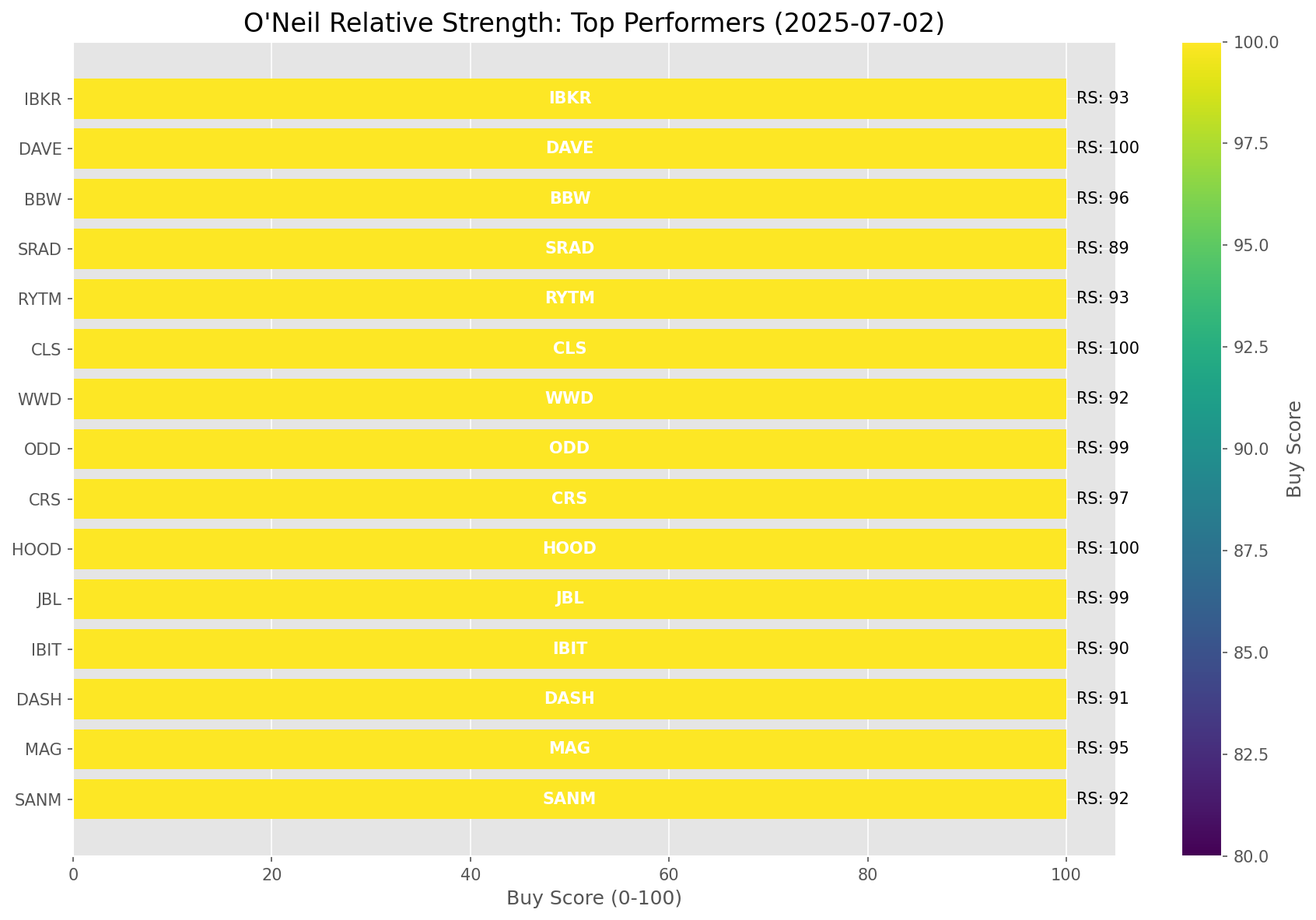
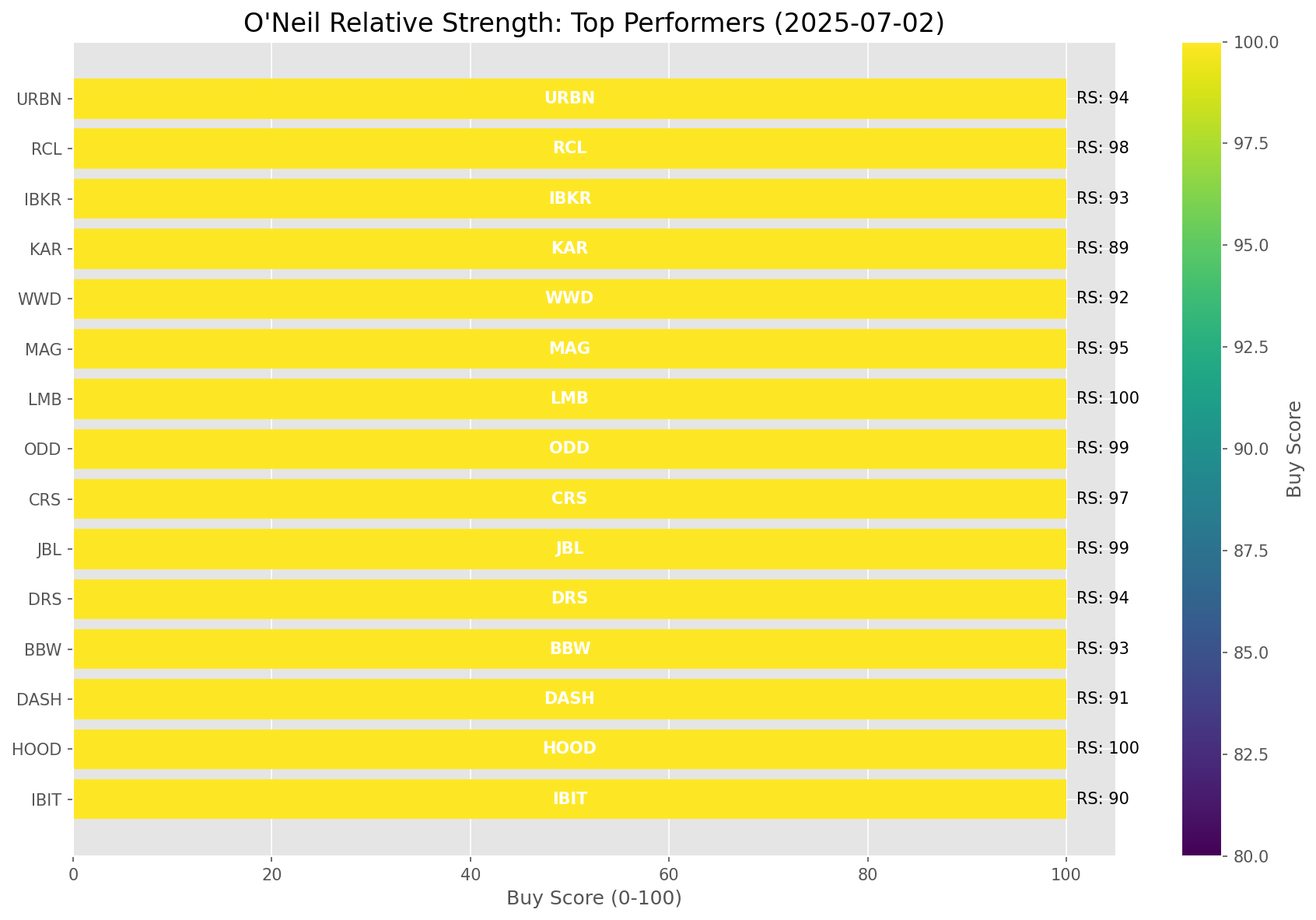
Add market report for 2025-07-02

diff --git a/oneil_relative_strength_report_2025-07-02.md b/oneil_relative_strength_report_2025-07-02.md
@@ -9,11 +9,11 @@
 | Metric | Value |
 |--------|-------|
 | **Market Valuation** | **Overvalued** |
-| **Current Ratio** | 10.18 |
+| **Current Ratio** | 10.19 |
 | **Historical Mean** | 9.37 |
 | **Standard Deviation** | 0.47 |
 | **Z-Score (StdDev from Mean)** | 1.64 |
-| **Total Market Cap** | $305.09 trillion |
+| **Total Market Cap** | $305.28 trillion |
 | **GDP** | $29.96 trillion |
 
 ## **Market Insights**
@@ -49,41 +49,41 @@ Based on William O'Neil's Relative Strength Methodology
 
 | ETF | Strength | RS Rating | Performance | Above Key MAs | Trend | Sector |
 |-----|----------|-----------|-------------|--------------|-------|--------|
-| [ARKW](https://www.tradingview.com/chart/?symbol=ARKW) | 98.5 | 97.0 | 51.11% | 10d ✓, 50d ✓, 200d ✓ | ↗ | Next Generation Internet |
-| [ARKK](https://www.tradingview.com/chart/?symbol=ARKK) | 98.5 | 97.0 | 47.62% | 10d ✓, 50d ✓, 200d ✓ | ↗ | Innovation |
-| [BLOK](https://www.tradingview.com/chart/?symbol=BLOK) | 98.0 | 96.0 | 41.51% | 10d ✓, 50d ✓, 200d ✓ | ↗ | Blockchain & Cryptocurrency |
-| [ARKF](https://www.tradingview.com/chart/?symbol=ARKF) | 98.0 | 96.0 | 46.80% | 10d ✓, 50d ✓, 200d ✓ | ↗ | Fintech Innovation |
-| [XLK](https://www.tradingview.com/chart/?symbol=XLK) | 92.0 | 84.0 | 21.59% | 10d ✓, 50d ✓, 200d ✓ | ↗ | Technology |
-| [AIQ](https://www.tradingview.com/chart/?symbol=AIQ) | 90.0 | 80.0 | 18.15% | 10d ✓, 50d ✓, 200d ✓ | ↗ | Artificial Intelligence & Technology |
-| [URA](https://www.tradingview.com/chart/?symbol=URA) | 89.6 | 99.0 | 62.76% | 10d ✗, 50d ✓, 200d ✓ | ↗ | Uranium |
-| [PAVE](https://www.tradingview.com/chart/?symbol=PAVE) | 89.0 | 78.0 | 16.68% | 10d ✓, 50d ✓, 200d ✓ | ↗ | Infrastructure |
-| [CIBR](https://www.tradingview.com/chart/?symbol=CIBR) | 89.0 | 78.0 | 17.03% | 10d ✓, 50d ✓, 200d ✓ | ↗ | Cybersecurity |
-| [JETS](https://www.tradingview.com/chart/?symbol=JETS) | 88.0 | 76.0 | 15.66% | 10d ✓, 50d ✓, 200d ✓ | ↗ | Airlines |
-| [XLI](https://www.tradingview.com/chart/?symbol=XLI) | 84.5 | 69.0 | 12.13% | 10d ✓, 50d ✓, 200d ✓ | ↗ | Industrial |
-| [XLC](https://www.tradingview.com/chart/?symbol=XLC) | 83.5 | 67.0 | 11.39% | 10d ✓, 50d ✓, 200d ✓ | ↗ | Communications |
-| [XLY](https://www.tradingview.com/chart/?symbol=XLY) | 82.0 | 64.0 | 10.24% | 10d ✓, 50d ✓, 200d ✓ | ↗ | Consumer Discretionary |
-| [SLV](https://www.tradingview.com/chart/?symbol=SLV) | 79.0 | 58.0 | 8.37% | 10d ✓, 50d ✓, 200d ✓ | ↗ | Silver |
-| [IYZ](https://www.tradingview.com/chart/?symbol=IYZ) | 78.5 | 57.0 | 7.61% | 10d ✓, 50d ✓, 200d ✓ | ↗ | Telecommunications |
-| [GLD](https://www.tradingview.com/chart/?symbol=GLD) | 77.5 | 55.0 | 7.32% | 10d ✓, 50d ✓, 200d ✓ | ↗ | Gold |
-| [XLF](https://www.tradingview.com/chart/?symbol=XLF) | 75.5 | 51.0 | 5.38% | 10d ✓, 50d ✓, 200d ✓ | ↗ | Financial |
-| [SOXX](https://www.tradingview.com/chart/?symbol=SOXX) | 75.0 | 90.0 | 28.74% | 10d ✓, 50d ✓, 200d ✓ | ↘ | Semiconductors |
-| [ARKG](https://www.tradingview.com/chart/?symbol=ARKG) | 74.0 | 88.0 | 24.90% | 10d ✓, 50d ✓, 200d ✓ | ↘ | Genomics |
-| [XLU](https://www.tradingview.com/chart/?symbol=XLU) | 72.0 | 44.0 | 2.86% | 10d ✓, 50d ✓, 200d ✓ | ↗ | Utilities |
-| [ICLN](https://www.tradingview.com/chart/?symbol=ICLN) | 69.5 | 79.0 | 17.51% | 10d ✓, 50d ✓, 200d ✓ | ↘ | Clean Energy |
-| [XLP](https://www.tradingview.com/chart/?symbol=XLP) | 68.5 | 37.0 | 0.44% | 10d ✓, 50d ✓, 200d ✓ | ↗ | Consumer Staples |
-| [IYT](https://www.tradingview.com/chart/?symbol=IYT) | 61.0 | 62.0 | 9.51% | 10d ✓, 50d ✓, 200d ✓ | ↘ | Transportation |
-| [XLB](https://www.tradingview.com/chart/?symbol=XLB) | 55.5 | 51.0 | 5.52% | 10d ✓, 50d ✓, 200d ✓ | ↘ | Materials |
-| [KWEB](https://www.tradingview.com/chart/?symbol=KWEB) | 51.6 | 23.0 | -3.46% | 10d ✗, 50d ✓, 200d ✓ | ↗ | Chinese Internet |
-| [DBC](https://www.tradingview.com/chart/?symbol=DBC) | 45.0 | 30.0 | -0.84% | 10d ✓, 50d ✓, 200d ✓ | ↘ | Commodities |
-| [IBB](https://www.tradingview.com/chart/?symbol=IBB) | 43.8 | 48.0 | 4.15% | 10d ✓, 50d ✓, 200d ✗ | ↘ | Biotechnology |
-| [ITB](https://www.tradingview.com/chart/?symbol=ITB) | 41.8 | 44.0 | 2.84% | 10d ✓, 50d ✓, 200d ✗ | ↘ | Home Construction |
-| [IYR](https://www.tradingview.com/chart/?symbol=IYR) | 35.8 | 32.0 | -0.42% | 10d ✓, 50d ✓, 200d ✗ | ↘ | Real Estate |
-| [DBA](https://www.tradingview.com/chart/?symbol=DBA) | 33.5 | 27.0 | -1.73% | 10d ✗, 50d ✗, 200d ✗ | ↗ | Agriculture |
-| [XLV](https://www.tradingview.com/chart/?symbol=XLV) | 29.3 | 19.0 | -5.33% | 10d ✓, 50d ✓, 200d ✗ | ↘ | Healthcare |
-| [XLE](https://www.tradingview.com/chart/?symbol=XLE) | 26.8 | 14.0 | -7.95% | 10d ✓, 50d ✓, 200d ✗ | ↘ | Energy |
-| [TLT](https://www.tradingview.com/chart/?symbol=TLT) | 19.9 | 20.0 | -4.58% | 10d ✗, 50d ✓, 200d ✗ | ↘ | Long-term Treasuries |
-| [BIL](https://www.tradingview.com/chart/?symbol=BIL) | 17.5 | 35.0 | 0.02% | 10d ✗, 50d ✗, 200d ✗ | ↘ | Short-term Treasuries |
-| [UUP](https://www.tradingview.com/chart/?symbol=UUP) | 9.0 | 18.0 | -5.93% | 10d ✗, 50d ✗, 200d ✗ | ↘ | U.S. Dollar |
+| [ARKK](https://www.tradingview.com/chart/?symbol=ARKK) | 98.5 | 97.0 | 47.68% | 10d ✓, 50d ✓, 200d ✓ | ↗ | Innovation |
+| [ARKW](https://www.tradingview.com/chart/?symbol=ARKW) | 98.5 | 97.0 | 51.14% | 10d ✓, 50d ✓, 200d ✓ | ↗ | Next Generation Internet |
+| [BLOK](https://www.tradingview.com/chart/?symbol=BLOK) | 98.0 | 96.0 | 42.49% | 10d ✓, 50d ✓, 200d ✓ | ↗ | Blockchain & Cryptocurrency |
+| [ARKF](https://www.tradingview.com/chart/?symbol=ARKF) | 98.0 | 96.0 | 46.83% | 10d ✓, 50d ✓, 200d ✓ | ↗ | Fintech Innovation |
+| [XLK](https://www.tradingview.com/chart/?symbol=XLK) | 92.0 | 84.0 | 21.77% | 10d ✓, 50d ✓, 200d ✓ | ↗ | Technology |
+| [AIQ](https://www.tradingview.com/chart/?symbol=AIQ) | 90.0 | 80.0 | 18.26% | 10d ✓, 50d ✓, 200d ✓ | ↗ | Artificial Intelligence & Technology |
+| [URA](https://www.tradingview.com/chart/?symbol=URA) | 89.6 | 99.0 | 63.39% | 10d ✗, 50d ✓, 200d ✓ | ↗ | Uranium |
+| [PAVE](https://www.tradingview.com/chart/?symbol=PAVE) | 89.0 | 78.0 | 16.96% | 10d ✓, 50d ✓, 200d ✓ | ↗ | Infrastructure |
+| [CIBR](https://www.tradingview.com/chart/?symbol=CIBR) | 89.0 | 78.0 | 17.11% | 10d ✓, 50d ✓, 200d ✓ | ↗ | Cybersecurity |
+| [JETS](https://www.tradingview.com/chart/?symbol=JETS) | 88.0 | 76.0 | 16.10% | 10d ✓, 50d ✓, 200d ✓ | ↗ | Airlines |
+| [XLI](https://www.tradingview.com/chart/?symbol=XLI) | 84.5 | 69.0 | 12.28% | 10d ✓, 50d ✓, 200d ✓ | ↗ | Industrial |
+| [XLC](https://www.tradingview.com/chart/?symbol=XLC) | 83.5 | 67.0 | 11.37% | 10d ✓, 50d ✓, 200d ✓ | ↗ | Communications |
+| [XLY](https://www.tradingview.com/chart/?symbol=XLY) | 82.0 | 64.0 | 10.41% | 10d ✓, 50d ✓, 200d ✓ | ↗ | Consumer Discretionary |
+| [SLV](https://www.tradingview.com/chart/?symbol=SLV) | 79.0 | 58.0 | 8.42% | 10d ✓, 50d ✓, 200d ✓ | ↗ | Silver |
+| [IYZ](https://www.tradingview.com/chart/?symbol=IYZ) | 78.0 | 56.0 | 7.79% | 10d ✓, 50d ✓, 200d ✓ | ↗ | Telecommunications |
+| [GLD](https://www.tradingview.com/chart/?symbol=GLD) | 77.5 | 55.0 | 7.47% | 10d ✓, 50d ✓, 200d ✓ | ↗ | Gold |
+| [XLF](https://www.tradingview.com/chart/?symbol=XLF) | 75.5 | 51.0 | 5.66% | 10d ✓, 50d ✓, 200d ✓ | ↗ | Financial |
+| [SOXX](https://www.tradingview.com/chart/?symbol=SOXX) | 75.0 | 90.0 | 28.68% | 10d ✓, 50d ✓, 200d ✓ | ↘ | Semiconductors |
+| [ARKG](https://www.tradingview.com/chart/?symbol=ARKG) | 73.5 | 87.0 | 24.88% | 10d ✓, 50d ✓, 200d ✓ | ↘ | Genomics |
+| [XLU](https://www.tradingview.com/chart/?symbol=XLU) | 72.0 | 44.0 | 3.06% | 10d ✓, 50d ✓, 200d ✓ | ↗ | Utilities |
+| [ICLN](https://www.tradingview.com/chart/?symbol=ICLN) | 69.5 | 79.0 | 17.62% | 10d ✓, 50d ✓, 200d ✓ | ↘ | Clean Energy |
+| [XLP](https://www.tradingview.com/chart/?symbol=XLP) | 68.0 | 36.0 | 0.40% | 10d ✓, 50d ✓, 200d ✓ | ↗ | Consumer Staples |
+| [IYT](https://www.tradingview.com/chart/?symbol=IYT) | 61.5 | 63.0 | 10.02% | 10d ✓, 50d ✓, 200d ✓ | ↘ | Transportation |
+| [XLB](https://www.tradingview.com/chart/?symbol=XLB) | 55.5 | 51.0 | 5.91% | 10d ✓, 50d ✓, 200d ✓ | ↘ | Materials |
+| [KWEB](https://www.tradingview.com/chart/?symbol=KWEB) | 51.6 | 23.0 | -3.44% | 10d ✗, 50d ✓, 200d ✓ | ↗ | Chinese Internet |
+| [DBC](https://www.tradingview.com/chart/?symbol=DBC) | 44.5 | 29.0 | -0.89% | 10d ✓, 50d ✓, 200d ✓ | ↘ | Commodities |
+| [IBB](https://www.tradingview.com/chart/?symbol=IBB) | 43.3 | 47.0 | 4.14% | 10d ✓, 50d ✓, 200d ✗ | ↘ | Biotechnology |
+| [ITB](https://www.tradingview.com/chart/?symbol=ITB) | 42.3 | 45.0 | 3.41% | 10d ✓, 50d ✓, 200d ✗ | ↘ | Home Construction |
+| [IYR](https://www.tradingview.com/chart/?symbol=IYR) | 36.8 | 34.0 | 0.02% | 10d ✓, 50d ✓, 200d ✗ | ↘ | Real Estate |
+| [DBA](https://www.tradingview.com/chart/?symbol=DBA) | 33.5 | 27.0 | -1.71% | 10d ✗, 50d ✗, 200d ✗ | ↗ | Agriculture |
+| [TLT](https://www.tradingview.com/chart/?symbol=TLT) | 29.8 | 20.0 | -4.37% | 10d ✓, 50d ✓, 200d ✗ | ↘ | Long-term Treasuries |
+| [XLV](https://www.tradingview.com/chart/?symbol=XLV) | 28.8 | 18.0 | -5.39% | 10d ✓, 50d ✓, 200d ✗ | ↘ | Healthcare |
+| [XLE](https://www.tradingview.com/chart/?symbol=XLE) | 26.8 | 14.0 | -7.58% | 10d ✓, 50d ✓, 200d ✗ | ↘ | Energy |
+| [BIL](https://www.tradingview.com/chart/?symbol=BIL) | 17.0 | 34.0 | 0.02% | 10d ✗, 50d ✗, 200d ✗ | ↘ | Short-term Treasuries |
+| [UUP](https://www.tradingview.com/chart/?symbol=UUP) | 8.5 | 17.0 | -5.95% | 10d ✗, 50d ✗, 200d ✗ | ↘ | U.S. Dollar |
 
 ### **Sector ETF Performance Interpretation**
 
@@ -98,136 +98,132 @@ This table shows the relative strength metrics for different market sectors base
 
 ### **Current Sector Leadership**
 
-The current market leadership is coming from the following sectors: **Next Generation Internet, Innovation, Blockchain & Cryptocurrency**.
+The current market leadership is coming from the following sectors: **Innovation, Next Generation Internet, Blockchain & Cryptocurrency**.
 
-The **Next Generation Internet** sector (represented by **ARKW**) is showing particularly strong relative strength with an RS rating of 97.0 and performance of 51.11% vs. the S&P 500. This sector is trading above its 10-day, 50-day, 200-day moving average(s). Investors should consider focusing on high RS stocks within these leading sectors for potential outperformance.
+The **Innovation** sector (represented by **ARKK**) is showing particularly strong relative strength with an RS rating of 97.0 and performance of 47.68% vs. the S&P 500. This sector is trading above its 10-day, 50-day, 200-day moving average(s). Investors should consider focusing on high RS stocks within these leading sectors for potential outperformance.
 
 ---
 
 ## **Buy Recommendations**
 
-The following 55 stocks show exceptional relative strength:
+The following 53 stocks show exceptional relative strength:
 
 | RS Rating | Buy Score | Current Price | Chart | Name | Ticker |
 |-----------|-----------|---------------|-------|------|--------|
-| 100 | 100 | $98.62 | [Chart](https://www.tradingview.com/chart/?symbol=HOOD) | Robinhood Markets, Inc. Class A Common Stock | HOOD |
-| 100 | 100 | $153.01 | [Chart](https://www.tradingview.com/chart/?symbol=CLS) | Celestica, Inc. | CLS |
-| 100 | 100 | $269.75 | [Chart](https://www.tradingview.com/chart/?symbol=DAVE) | Dave Inc. Class A Common Stock | DAVE |
-| 100 | 100 | $173.19 | [Chart](https://www.tradingview.com/chart/?symbol=SEZL) | Sezzle Inc. Common Stock | SEZL |
-| 100 | 100 | $145.69 | [Chart](https://www.tradingview.com/chart/?symbol=LMB) | Limbach Holdings, Inc Common Stock | LMB |
-| 99 | 100 | $219.08 | [Chart](https://www.tradingview.com/chart/?symbol=JBL) | Jabil Inc. | JBL |
-| 99 | 100 | $75.44 | [Chart](https://www.tradingview.com/chart/?symbol=ODD) | ODDITY Tech Ltd. Class A Ordinary Shares | ODD |
-| 99 | 100 | $342.72 | [Chart](https://www.tradingview.com/chart/?symbol=CVNA) | Carvana Co. | CVNA |
+| 100 | 100 | $97.44 | [Chart](https://www.tradingview.com/chart/?symbol=HOOD) | Robinhood Markets, Inc. Class A Common Stock | HOOD |
+| 100 | 100 | $144.17 | [Chart](https://www.tradingview.com/chart/?symbol=LMB) | Limbach Holdings, Inc Common Stock | LMB |
+| 100 | 100 | $153.21 | [Chart](https://www.tradingview.com/chart/?symbol=CLS) | Celestica, Inc. | CLS |
+| 100 | 100 | $172.62 | [Chart](https://www.tradingview.com/chart/?symbol=SEZL) | Sezzle Inc. Common Stock | SEZL |
+| 100 | 100 | $271.79 | [Chart](https://www.tradingview.com/chart/?symbol=DAVE) | Dave Inc. Class A Common Stock | DAVE |
+| 99 | 100 | $220.97 | [Chart](https://www.tradingview.com/chart/?symbol=JBL) | Jabil Inc. | JBL |
+| 99 | 100 | $75.13 | [Chart](https://www.tradingview.com/chart/?symbol=ODD) | ODDITY Tech Ltd. Class A Ordinary Shares | ODD |
 | 99 | 100 | $43.88 | [Chart](https://www.tradingview.com/chart/?symbol=FARO) | Faro Technologies Inc | FARO |
-| 98 | 100 | $322.94 | [Chart](https://www.tradingview.com/chart/?symbol=RCL) | Royal Caribbean Group | RCL |
-| 97 | 100 | $273.17 | [Chart](https://www.tradingview.com/chart/?symbol=CRS) | Carpenter Technology Corp | CRS |
-| 96 | 100 | $52.60 | [Chart](https://www.tradingview.com/chart/?symbol=BBW) | Build-A-Bear Workshop, Inc. | BBW |
-| 96 | 100 | $38.09 | [Chart](https://www.tradingview.com/chart/?symbol=AS) | Amer Sports, Inc. | AS |
-| 95 | 100 | $21.23 | [Chart](https://www.tradingview.com/chart/?symbol=MAG) | MAG Silver Corp. | MAG |
-| 94 | 100 | $73.17 | [Chart](https://www.tradingview.com/chart/?symbol=URBN) | Urban Outfitters Inc | URBN |
-| 94 | 100 | $45.18 | [Chart](https://www.tradingview.com/chart/?symbol=DRS) | Leonardo DRS, Inc. Common Stock | DRS |
-| 93 | 100 | $67.10 | [Chart](https://www.tradingview.com/chart/?symbol=RYTM) | Rhythm Pharmaceuticals, Inc. Common Stock | RYTM |
-| 93 | 100 | $57.56 | [Chart](https://www.tradingview.com/chart/?symbol=IBKR) | Interactive Brokers Group, Inc. Class A Common Stock | IBKR |
-| 93 | 100 | $17.70 | [Chart](https://www.tradingview.com/chart/?symbol=DAN) | Dana Incorporated | DAN |
-| 92 | 100 | $100.43 | [Chart](https://www.tradingview.com/chart/?symbol=SANM) | Sanmina  Corp | SANM |
-| 92 | 100 | $246.56 | [Chart](https://www.tradingview.com/chart/?symbol=WWD) | Woodward, Inc. | WWD |
-| 91 | 100 | $237.93 | [Chart](https://www.tradingview.com/chart/?symbol=DASH) | DoorDash, Inc. Class A Common Stock | DASH |
-| 91 | 100 | $41.92 | [Chart](https://www.tradingview.com/chart/?symbol=KD) | Kyndryl Holdings, Inc. | KD |
-| 90 | 100 | $62.18 | [Chart](https://www.tradingview.com/chart/?symbol=IBIT) | iShares Bitcoin Trust ETF | IBIT |
-| 90 | 100 | $65.15 | [Chart](https://www.tradingview.com/chart/?symbol=CAKE) | Cheesecake Factory (The) | CAKE |
-| 90 | 100 | $104.54 | [Chart](https://www.tradingview.com/chart/?symbol=JCI) | Johnson Controls International plc | JCI |
-| 89 | 100 | $27.50 | [Chart](https://www.tradingview.com/chart/?symbol=SRAD) | Sportradar Group AG Class A Ordinary Shares | SRAD |
-| 89 | 100 | $25.50 | [Chart](https://www.tradingview.com/chart/?symbol=KAR) | OPENLANE, Inc | KAR |
-| 88 | 99 | $132.99 | [Chart](https://www.tradingview.com/chart/?symbol=NTES) | NetEase, inc. | NTES |
-| 87 | 99 | $155.29 | [Chart](https://www.tradingview.com/chart/?symbol=COOP) | Mr. Cooper Group Inc. Common Stock | COOP |
-| 88 | 98 | $85.36 | [Chart](https://www.tradingview.com/chart/?symbol=SLNO) | Soleno Therapeutics, Inc. Common Stock | SLNO |
-| 84 | 97 | $44.09 | [Chart](https://www.tradingview.com/chart/?symbol=EXEL) | Exelixis Inc | EXEL |
-| 87 | 96 | $48.47 | [Chart](https://www.tradingview.com/chart/?symbol=SIL) | Global X Silver Miners ETF (NEW) | SIL |
+| 99 | 100 | $343.47 | [Chart](https://www.tradingview.com/chart/?symbol=CVNA) | Carvana Co. | CVNA |
+| 98 | 100 | $324.19 | [Chart](https://www.tradingview.com/chart/?symbol=RCL) | Royal Caribbean Group | RCL |
+| 97 | 100 | $273.38 | [Chart](https://www.tradingview.com/chart/?symbol=CRS) | Carpenter Technology Corp | CRS |
+| 96 | 100 | $38.12 | [Chart](https://www.tradingview.com/chart/?symbol=AS) | Amer Sports, Inc. | AS |
+| 95 | 100 | $21.28 | [Chart](https://www.tradingview.com/chart/?symbol=MAG) | MAG Silver Corp. | MAG |
+| 94 | 100 | $45.07 | [Chart](https://www.tradingview.com/chart/?symbol=DRS) | Leonardo DRS, Inc. Common Stock | DRS |
+| 94 | 100 | $73.02 | [Chart](https://www.tradingview.com/chart/?symbol=URBN) | Urban Outfitters Inc | URBN |
+| 93 | 100 | $52.64 | [Chart](https://www.tradingview.com/chart/?symbol=BBW) | Build-A-Bear Workshop, Inc. | BBW |
+| 93 | 100 | $57.73 | [Chart](https://www.tradingview.com/chart/?symbol=IBKR) | Interactive Brokers Group, Inc. Class A Common Stock | IBKR |
+| 93 | 100 | $66.97 | [Chart](https://www.tradingview.com/chart/?symbol=RYTM) | Rhythm Pharmaceuticals, Inc. Common Stock | RYTM |
+| 93 | 100 | $17.74 | [Chart](https://www.tradingview.com/chart/?symbol=DAN) | Dana Incorporated | DAN |
+| 93 | 100 | $101.25 | [Chart](https://www.tradingview.com/chart/?symbol=SANM) | Sanmina  Corp | SANM |
+| 92 | 100 | $247.00 | [Chart](https://www.tradingview.com/chart/?symbol=WWD) | Woodward, Inc. | WWD |
+| 92 | 100 | $42.16 | [Chart](https://www.tradingview.com/chart/?symbol=KD) | Kyndryl Holdings, Inc. | KD |
+| 91 | 100 | $237.16 | [Chart](https://www.tradingview.com/chart/?symbol=DASH) | DoorDash, Inc. Class A Common Stock | DASH |
+| 90 | 100 | $62.20 | [Chart](https://www.tradingview.com/chart/?symbol=IBIT) | iShares Bitcoin Trust ETF | IBIT |
+| 90 | 100 | $104.81 | [Chart](https://www.tradingview.com/chart/?symbol=JCI) | Johnson Controls International plc | JCI |
+| 90 | 100 | $65.41 | [Chart](https://www.tradingview.com/chart/?symbol=CAKE) | Cheesecake Factory (The) | CAKE |
+| 89 | 100 | $25.52 | [Chart](https://www.tradingview.com/chart/?symbol=KAR) | OPENLANE, Inc | KAR |
+| 89 | 100 | $27.41 | [Chart](https://www.tradingview.com/chart/?symbol=SRAD) | Sportradar Group AG Class A Ordinary Shares | SRAD |
+| 88 | 99 | $132.89 | [Chart](https://www.tradingview.com/chart/?symbol=NTES) | NetEase, inc. | NTES |
+| 87 | 99 | $155.00 | [Chart](https://www.tradingview.com/chart/?symbol=COOP) | Mr. Cooper Group Inc. Common Stock | COOP |
+| 88 | 98 | $85.37 | [Chart](https://www.tradingview.com/chart/?symbol=SLNO) | Soleno Therapeutics, Inc. Common Stock | SLNO |
+| 86 | 97 | $219.19 | [Chart](https://www.tradingview.com/chart/?symbol=COF) | Capital One Financial | COF |
+| 86 | 97 | $282.36 | [Chart](https://www.tradingview.com/chart/?symbol=VEEV) | Veeva Systems Inc. | VEEV |
+| 84 | 97 | $44.15 | [Chart](https://www.tradingview.com/chart/?symbol=EXEL) | Exelixis Inc | EXEL |
+| 87 | 96 | $48.59 | [Chart](https://www.tradingview.com/chart/?symbol=SIL) | Global X Silver Miners ETF (NEW) | SIL |
 | 86 | 96 | $250.81 | [Chart](https://www.tradingview.com/chart/?symbol=WTS) | Watts Water Technologies, Inc. Class A | WTS |
-| 85 | 96 | $218.20 | [Chart](https://www.tradingview.com/chart/?symbol=COF) | Capital One Financial | COF |
 | 83 | 96 | $29.02 | [Chart](https://www.tradingview.com/chart/?symbol=DB) | Deutsche Bank Aktiengesellschaft | DB |
-| 83 | 96 | $181.90 | [Chart](https://www.tradingview.com/chart/?symbol=EAT) | Brinker International, Inc. | EAT |
-| 82 | 96 | $91.66 | [Chart](https://www.tradingview.com/chart/?symbol=SNEX) | StoneX Group Inc. Common Stock | SNEX |
-| 84 | 95 | $5665.44 | [Chart](https://www.tradingview.com/chart/?symbol=BKNG) | Booking Holdings Inc. Common Stock | BKNG |
-| 84 | 95 | $51.34 | [Chart](https://www.tradingview.com/chart/?symbol=GH) | Guardant Health, Inc. Common Stock | GH |
-| 82 | 95 | $21.13 | [Chart](https://www.tradingview.com/chart/?symbol=KT) | KT Corp. | KT |
-| 84 | 94 | $106.39 | [Chart](https://www.tradingview.com/chart/?symbol=PSMT) | Pricesmart Inc | PSMT |
-| 83 | 93 | $29.45 | [Chart](https://www.tradingview.com/chart/?symbol=NTGR) | NETGEAR, Inc. | NTGR |
-| 83 | 93 | $59.61 | [Chart](https://www.tradingview.com/chart/?symbol=NTR) | Nutrien Ltd. Common Shares | NTR |
-| 82 | 93 | $223.35 | [Chart](https://www.tradingview.com/chart/?symbol=BAP) | Credicorp LTD | BAP |
-| 82 | 93 | $184.53 | [Chart](https://www.tradingview.com/chart/?symbol=ITA) | iShares U.S. Aerospace & Defense ETF | ITA |
-| 82 | 93 | $290.87 | [Chart](https://www.tradingview.com/chart/?symbol=JPM) | JPMorgan Chase & Co. | JPM |
-| 82 | 93 | $76.38 | [Chart](https://www.tradingview.com/chart/?symbol=CTVA) | Corteva, Inc. Common Stock | CTVA |
-| 80 | 93 | $29.05 | [Chart](https://www.tradingview.com/chart/?symbol=CAE) | CAE INC | CAE |
-| 80 | 93 | $36.28 | [Chart](https://www.tradingview.com/chart/?symbol=AHR) | American Healthcare REIT, Inc. | AHR |
-| 82 | 92 | $111.25 | [Chart](https://www.tradingview.com/chart/?symbol=SPMO) | Invesco S&P 500 Momentum ETF | SPMO |
-| 80 | 92 | $80.39 | [Chart](https://www.tradingview.com/chart/?symbol=LLYVK) | Liberty Media Corporation Series C Liberty Live Common Stock | LLYVK |
-| 80 | 92 | $86.16 | [Chart](https://www.tradingview.com/chart/?symbol=TPR) | Tapestry, Inc. Common Stock | TPR |
-| 81 | 91 | $91.75 | [Chart](https://www.tradingview.com/chart/?symbol=SEIC) | SEI Investments Co | SEIC |
-| 81 | 91 | $139.87 | [Chart](https://www.tradingview.com/chart/?symbol=PPA) | Invesco Aerospace & Defense ETF | PPA |
+| 83 | 96 | $182.18 | [Chart](https://www.tradingview.com/chart/?symbol=EAT) | Brinker International, Inc. | EAT |
+| 82 | 96 | $92.10 | [Chart](https://www.tradingview.com/chart/?symbol=SNEX) | StoneX Group Inc. Common Stock | SNEX |
+| 83 | 94 | $224.34 | [Chart](https://www.tradingview.com/chart/?symbol=BAP) | Credicorp LTD | BAP |
+| 83 | 94 | $76.70 | [Chart](https://www.tradingview.com/chart/?symbol=CTVA) | Corteva, Inc. Common Stock | CTVA |
+| 83 | 94 | $5672.71 | [Chart](https://www.tradingview.com/chart/?symbol=BKNG) | Booking Holdings Inc. Common Stock | BKNG |
+| 81 | 94 | $21.12 | [Chart](https://www.tradingview.com/chart/?symbol=KT) | KT Corp. | KT |
+| 83 | 93 | $106.27 | [Chart](https://www.tradingview.com/chart/?symbol=PSMT) | Pricesmart Inc | PSMT |
+| 83 | 93 | $59.79 | [Chart](https://www.tradingview.com/chart/?symbol=NTR) | Nutrien Ltd. Common Shares | NTR |
+| 82 | 93 | $291.62 | [Chart](https://www.tradingview.com/chart/?symbol=JPM) | JPMorgan Chase & Co. | JPM |
+| 80 | 93 | $29.08 | [Chart](https://www.tradingview.com/chart/?symbol=CAE) | CAE INC | CAE |
+| 82 | 92 | $50.73 | [Chart](https://www.tradingview.com/chart/?symbol=GH) | Guardant Health, Inc. Common Stock | GH |
+| 81 | 92 | $184.09 | [Chart](https://www.tradingview.com/chart/?symbol=ITA) | iShares U.S. Aerospace & Defense ETF | ITA |
+| 80 | 92 | $86.31 | [Chart](https://www.tradingview.com/chart/?symbol=TPR) | Tapestry, Inc. Common Stock | TPR |
+| 81 | 91 | $139.68 | [Chart](https://www.tradingview.com/chart/?symbol=PPA) | Invesco Aerospace & Defense ETF | PPA |
+| 81 | 91 | $111.24 | [Chart](https://www.tradingview.com/chart/?symbol=SPMO) | Invesco S&P 500 Momentum ETF | SPMO |
+| 81 | 91 | $91.76 | [Chart](https://www.tradingview.com/chart/?symbol=SEIC) | SEI Investments Co | SEIC |
 
 ---
 
 
 ## **Sell Recommendations**
 
-The following 53 stocks show deteriorating relative strength:
+The following 51 stocks show deteriorating relative strength:
 
 | RS Rating | Sell Score | Current Price | Chart | Name | Ticker |
 |-----------|------------|---------------|-------|------|--------|
-| 1 | 100 | $26.82 | [Chart](https://www.tradingview.com/chart/?symbol=TECS) | Direxion Daily Technology Bear 3x Shares | TECS |
 | 1 | 100 | $14.59 | [Chart](https://www.tradingview.com/chart/?symbol=NVDS) | Investment Managers Series Trust II Tradr 1.5X Short NVDA Daily ETF | NVDS |
 | 1 | 100 | $10.09 | [Chart](https://www.tradingview.com/chart/?symbol=HIBS) | Direxion Daily S&P 500 High Beta Bear 3X Shares | HIBS |
-| 2 | 100 | $43.57 | [Chart](https://www.tradingview.com/chart/?symbol=LINE) | Lineage, Inc. Common Stock | LINE |
-| 2 | 100 | $25.46 | [Chart](https://www.tradingview.com/chart/?symbol=QID) | ProShares UltraShort QQQ | QID |
-| 2 | 100 | $19.33 | [Chart](https://www.tradingview.com/chart/?symbol=BITI) | ProShares Short Bitcoin ETF | BITI |
-| 2 | 100 | $24.63 | [Chart](https://www.tradingview.com/chart/?symbol=CRTO) | Criteo S.A. | CRTO |
-| 3 | 100 | $10.62 | [Chart](https://www.tradingview.com/chart/?symbol=IMXI) | International Money Express, Inc. | IMXI |
-| 3 | 100 | $40.44 | [Chart](https://www.tradingview.com/chart/?symbol=SDOW) | ProShares UltraPro Short Dow 30 | SDOW |
-| 4 | 100 | $79.78 | [Chart](https://www.tradingview.com/chart/?symbol=LNTH) | Lantheus Holdings, Inc | LNTH |
-| 4 | 100 | $12.47 | [Chart](https://www.tradingview.com/chart/?symbol=VFC) | V.F. Corporation | VFC |
-| 5 | 100 | $357.45 | [Chart](https://www.tradingview.com/chart/?symbol=ELV) | Elevance Health, Inc. | ELV |
-| 5 | 100 | $33.77 | [Chart](https://www.tradingview.com/chart/?symbol=PSQ) | ProShares Short QQQ | PSQ |
-| 6 | 100 | $103.36 | [Chart](https://www.tradingview.com/chart/?symbol=PDD) | PDD Holdings Inc. American Depositary Shares | PDD |
-| 6 | 100 | $10.16 | [Chart](https://www.tradingview.com/chart/?symbol=LBTYK) | Liberty Global Ltd. Class C Common Shares | LBTYK |
-| 7 | 100 | $23.82 | [Chart](https://www.tradingview.com/chart/?symbol=DXD) | ProShares UltraShort Dow 30 | DXD |
-| 8 | 100 | $35.57 | [Chart](https://www.tradingview.com/chart/?symbol=SARK) | Investment Managers Series Trust II Tradr 1X Short Innovation Daily ETF | SARK |
-| 10 | 100 | $13.84 | [Chart](https://www.tradingview.com/chart/?symbol=OCSL) | Oaktree Specialty Lending Corporation | OCSL |
-| 12 | 100 | $17.95 | [Chart](https://www.tradingview.com/chart/?symbol=ZTO) | ZTO Express (Cayman) Inc. American Depositary Shares, each representing one Class A ordinary share | ZTO |
+| 1 | 100 | $26.71 | [Chart](https://www.tradingview.com/chart/?symbol=TECS) | Direxion Daily Technology Bear 3x Shares | TECS |
+| 2 | 100 | $25.45 | [Chart](https://www.tradingview.com/chart/?symbol=QID) | ProShares UltraShort QQQ | QID |
+| 2 | 100 | $43.72 | [Chart](https://www.tradingview.com/chart/?symbol=LINE) | Lineage, Inc. Common Stock | LINE |
+| 2 | 100 | $19.30 | [Chart](https://www.tradingview.com/chart/?symbol=BITI) | ProShares Short Bitcoin ETF | BITI |
+| 2 | 100 | $24.55 | [Chart](https://www.tradingview.com/chart/?symbol=CRTO) | Criteo S.A. | CRTO |
+| 3 | 100 | $40.34 | [Chart](https://www.tradingview.com/chart/?symbol=SDOW) | ProShares UltraPro Short Dow 30 | SDOW |
+| 3 | 100 | $10.61 | [Chart](https://www.tradingview.com/chart/?symbol=IMXI) | International Money Express, Inc. | IMXI |
+| 4 | 100 | $355.33 | [Chart](https://www.tradingview.com/chart/?symbol=ELV) | Elevance Health, Inc. | ELV |
+| 4 | 100 | $79.09 | [Chart](https://www.tradingview.com/chart/?symbol=LNTH) | Lantheus Holdings, Inc | LNTH |
+| 4 | 100 | $12.45 | [Chart](https://www.tradingview.com/chart/?symbol=VFC) | V.F. Corporation | VFC |
+| 5 | 100 | $24.68 | [Chart](https://www.tradingview.com/chart/?symbol=ASTH) | Astrana Health Inc. Common Stock | ASTH |
+| 5 | 100 | $33.75 | [Chart](https://www.tradingview.com/chart/?symbol=PSQ) | ProShares Short QQQ | PSQ |
+| 6 | 100 | $10.20 | [Chart](https://www.tradingview.com/chart/?symbol=LBTYK) | Liberty Global Ltd. Class C Common Shares | LBTYK |
+| 6 | 100 | $103.73 | [Chart](https://www.tradingview.com/chart/?symbol=PDD) | PDD Holdings Inc. American Depositary Shares | PDD |
+| 7 | 100 | $23.79 | [Chart](https://www.tradingview.com/chart/?symbol=DXD) | ProShares UltraShort Dow 30 | DXD |
+| 8 | 100 | $35.52 | [Chart](https://www.tradingview.com/chart/?symbol=SARK) | Investment Managers Series Trust II Tradr 1X Short Innovation Daily ETF | SARK |
+| 9 | 100 | $39.55 | [Chart](https://www.tradingview.com/chart/?symbol=SH) | ProShares Short S&P500 | SH |
+| 10 | 100 | $13.88 | [Chart](https://www.tradingview.com/chart/?symbol=OCSL) | Oaktree Specialty Lending Corporation | OCSL |
+| 12 | 100 | $18.02 | [Chart](https://www.tradingview.com/chart/?symbol=ZTO) | ZTO Express (Cayman) Inc. American Depositary Shares, each representing one Class A ordinary share | ZTO |
 | 5 | 99 | $17.25 | [Chart](https://www.tradingview.com/chart/?symbol=CODI) | Compass Diversified | CODI |
-| 10 | 99 | $39.59 | [Chart](https://www.tradingview.com/chart/?symbol=SH) | ProShares Short S&P500 | SH |
 | 9 | 98 | $25.94 | [Chart](https://www.tradingview.com/chart/?symbol=ZSL) | ProShares UltraShort Silver | ZSL |
-| 10 | 98 | $84.73 | [Chart](https://www.tradingview.com/chart/?symbol=KSPI) | Joint Stock Company Kaspi.kz American Depository Shares | KSPI |
-| 14 | 98 | $84.71 | [Chart](https://www.tradingview.com/chart/?symbol=SIGI) | Selective Insurance Group | SIGI |
-| 10 | 96 | $18.19 | [Chart](https://www.tradingview.com/chart/?symbol=DJT) | Trump Media & Technology Group Corp. Common Stock | DJT |
-| 11 | 96 | $53.58 | [Chart](https://www.tradingview.com/chart/?symbol=CNMD) | CONMED Corporation | CNMD |
-| 6 | 95 | $24.77 | [Chart](https://www.tradingview.com/chart/?symbol=DRV) | Direxion Daily Real Estate Bear 3X Shares | DRV |
-| 7 | 94 | $12.54 | [Chart](https://www.tradingview.com/chart/?symbol=WSR) | Whitestone REIT | WSR |
-| 12 | 94 | $331.50 | [Chart](https://www.tradingview.com/chart/?symbol=EG) | Everest Group, Ltd. | EG |
-| 16 | 93 | $25.28 | [Chart](https://www.tradingview.com/chart/?symbol=DOG) | ProShares Short Dow30 | DOG |
-| 9 | 92 | $67.61 | [Chart](https://www.tradingview.com/chart/?symbol=WK) | Workiva Inc. | WK |
-| 12 | 92 | $49.30 | [Chart](https://www.tradingview.com/chart/?symbol=SNY) | Sanofi American Depositary Shares (Each representing one-half of one ordinary share) | SNY |
-| 18 | 92 | $86.22 | [Chart](https://www.tradingview.com/chart/?symbol=BIDU) | Baidu, Inc. | BIDU |
-| 14 | 91 | $132.01 | [Chart](https://www.tradingview.com/chart/?symbol=KMB) | Kimberly-Clark Corp. | KMB |
-| 10 | 90 | $40.36 | [Chart](https://www.tradingview.com/chart/?symbol=UDR) | UDR, Inc. | UDR |
-| 16 | 89 | $19.03 | [Chart](https://www.tradingview.com/chart/?symbol=MSDL) | Morgan Stanley Direct Lending Fund | MSDL |
-| 24 | 89 | $18.05 | [Chart](https://www.tradingview.com/chart/?symbol=S) | SentinelOne, Inc. | S |
-| 21 | 88 | $21.86 | [Chart](https://www.tradingview.com/chart/?symbol=KIDS) | OrthoPediatrics Corp. Common Stock | KIDS |
-| 23 | 86 | $777.43 | [Chart](https://www.tradingview.com/chart/?symbol=LLY) | Eli Lilly & Co. | LLY |
-| 19 | 84 | $15.12 | [Chart](https://www.tradingview.com/chart/?symbol=PLSE) | Pulse Biosciences, Inc Common Stock (DE) | PLSE |
-| 21 | 84 | $300.65 | [Chart](https://www.tradingview.com/chart/?symbol=ACN) | Accenture PLC | ACN |
-| 22 | 84 | $294.40 | [Chart](https://www.tradingview.com/chart/?symbol=UTHR) | United Therapeutics Corp | UTHR |
+| 10 | 98 | $84.68 | [Chart](https://www.tradingview.com/chart/?symbol=KSPI) | Joint Stock Company Kaspi.kz American Depository Shares | KSPI |
+| 14 | 98 | $84.93 | [Chart](https://www.tradingview.com/chart/?symbol=SIGI) | Selective Insurance Group | SIGI |
+| 5 | 96 | $24.77 | [Chart](https://www.tradingview.com/chart/?symbol=DRV) | Direxion Daily Real Estate Bear 3X Shares | DRV |
+| 10 | 95 | $18.20 | [Chart](https://www.tradingview.com/chart/?symbol=DJT) | Trump Media & Technology Group Corp. Common Stock | DJT |
+| 11 | 95 | $53.78 | [Chart](https://www.tradingview.com/chart/?symbol=CNMD) | CONMED Corporation | CNMD |
+| 11 | 93 | $49.30 | [Chart](https://www.tradingview.com/chart/?symbol=SNY) | Sanofi American Depositary Shares (Each representing one-half of one ordinary share) | SNY |
+| 16 | 93 | $25.26 | [Chart](https://www.tradingview.com/chart/?symbol=DOG) | ProShares Short Dow30 | DOG |
+| 17 | 93 | $86.37 | [Chart](https://www.tradingview.com/chart/?symbol=BIDU) | Baidu, Inc. | BIDU |
+| 9 | 92 | $67.81 | [Chart](https://www.tradingview.com/chart/?symbol=WK) | Workiva Inc. | WK |
+| 14 | 91 | $132.36 | [Chart](https://www.tradingview.com/chart/?symbol=KMB) | Kimberly-Clark Corp. | KMB |
+| 10 | 90 | $40.60 | [Chart](https://www.tradingview.com/chart/?symbol=UDR) | UDR, Inc. | UDR |
+| 23 | 90 | $18.01 | [Chart](https://www.tradingview.com/chart/?symbol=S) | SentinelOne, Inc. | S |
+| 16 | 89 | $19.07 | [Chart](https://www.tradingview.com/chart/?symbol=MSDL) | Morgan Stanley Direct Lending Fund | MSDL |
+| 20 | 89 | $21.86 | [Chart](https://www.tradingview.com/chart/?symbol=KIDS) | OrthoPediatrics Corp. Common Stock | KIDS |
+| 23 | 86 | $778.02 | [Chart](https://www.tradingview.com/chart/?symbol=LLY) | Eli Lilly & Co. | LLY |
+| 21 | 85 | $294.84 | [Chart](https://www.tradingview.com/chart/?symbol=UTHR) | United Therapeutics Corp | UTHR |
 | 20 | 83 | $76.29 | [Chart](https://www.tradingview.com/chart/?symbol=CNS) | Cohen & Steers Inc. | CNS |
-| 24 | 83 | $29.70 | [Chart](https://www.tradingview.com/chart/?symbol=CRNX) | Crinetics Pharmaceuticals, Inc. | CRNX |
-| 28 | 83 | $195.01 | [Chart](https://www.tradingview.com/chart/?symbol=RGA) | Reinsurance Group of America, Incorporated | RGA |
-| 19 | 81 | $55.13 | [Chart](https://www.tradingview.com/chart/?symbol=DAY) | Dayforce, Inc. | DAY |
-| 26 | 80 | $12.98 | [Chart](https://www.tradingview.com/chart/?symbol=RIVN) | Rivian Automotive, Inc. Class A Common Stock | RIVN |
-| 23 | 79 | $69.02 | [Chart](https://www.tradingview.com/chart/?symbol=BRC) | Brady Corporation | BRC |
-| 29 | 77 | $127.08 | [Chart](https://www.tradingview.com/chart/?symbol=RGEN) | Repligen Corp | RGEN |
-| 33 | 76 | $36.10 | [Chart](https://www.tradingview.com/chart/?symbol=WPP) | WPP PLC | WPP |
-| 30 | 73 | $52.81 | [Chart](https://www.tradingview.com/chart/?symbol=LW) | Lamb Weston Holdings, Inc. | LW |
-| 34 | 68 | $23.10 | [Chart](https://www.tradingview.com/chart/?symbol=IBHF) | iShares iBonds 2026 Term High Yield and Income ETF | IBHF |
-| 34 | 67 | $22.84 | [Chart](https://www.tradingview.com/chart/?symbol=IBTG) | iShares iBonds Dec 2026 Term Treasury ETF | IBTG |
+| 20 | 83 | $15.21 | [Chart](https://www.tradingview.com/chart/?symbol=PLSE) | Pulse Biosciences, Inc Common Stock (DE) | PLSE |
+| 22 | 83 | $301.57 | [Chart](https://www.tradingview.com/chart/?symbol=ACN) | Accenture PLC | ACN |
+| 24 | 83 | $29.73 | [Chart](https://www.tradingview.com/chart/?symbol=CRNX) | Crinetics Pharmaceuticals, Inc. | CRNX |
+| 28 | 83 | $195.74 | [Chart](https://www.tradingview.com/chart/?symbol=RGA) | Reinsurance Group of America, Incorporated | RGA |
+| 19 | 81 | $55.34 | [Chart](https://www.tradingview.com/chart/?symbol=DAY) | Dayforce, Inc. | DAY |
+| 22 | 80 | $69.02 | [Chart](https://www.tradingview.com/chart/?symbol=BRC) | Brady Corporation | BRC |
+| 26 | 80 | $12.99 | [Chart](https://www.tradingview.com/chart/?symbol=RIVN) | Rivian Automotive, Inc. Class A Common Stock | RIVN |
+| 29 | 76 | $127.11 | [Chart](https://www.tradingview.com/chart/?symbol=RGEN) | Repligen Corp | RGEN |
+| 33 | 75 | $36.19 | [Chart](https://www.tradingview.com/chart/?symbol=WPP) | WPP PLC | WPP |
+| 34 | 68 | $23.11 | [Chart](https://www.tradingview.com/chart/?symbol=IBHF) | iShares iBonds 2026 Term High Yield and Income ETF | IBHF |
+| 33 | 67 | $22.85 | [Chart](https://www.tradingview.com/chart/?symbol=IBTG) | iShares iBonds Dec 2026 Term Treasury ETF | IBTG |
 
 ## **Methodology**
 
